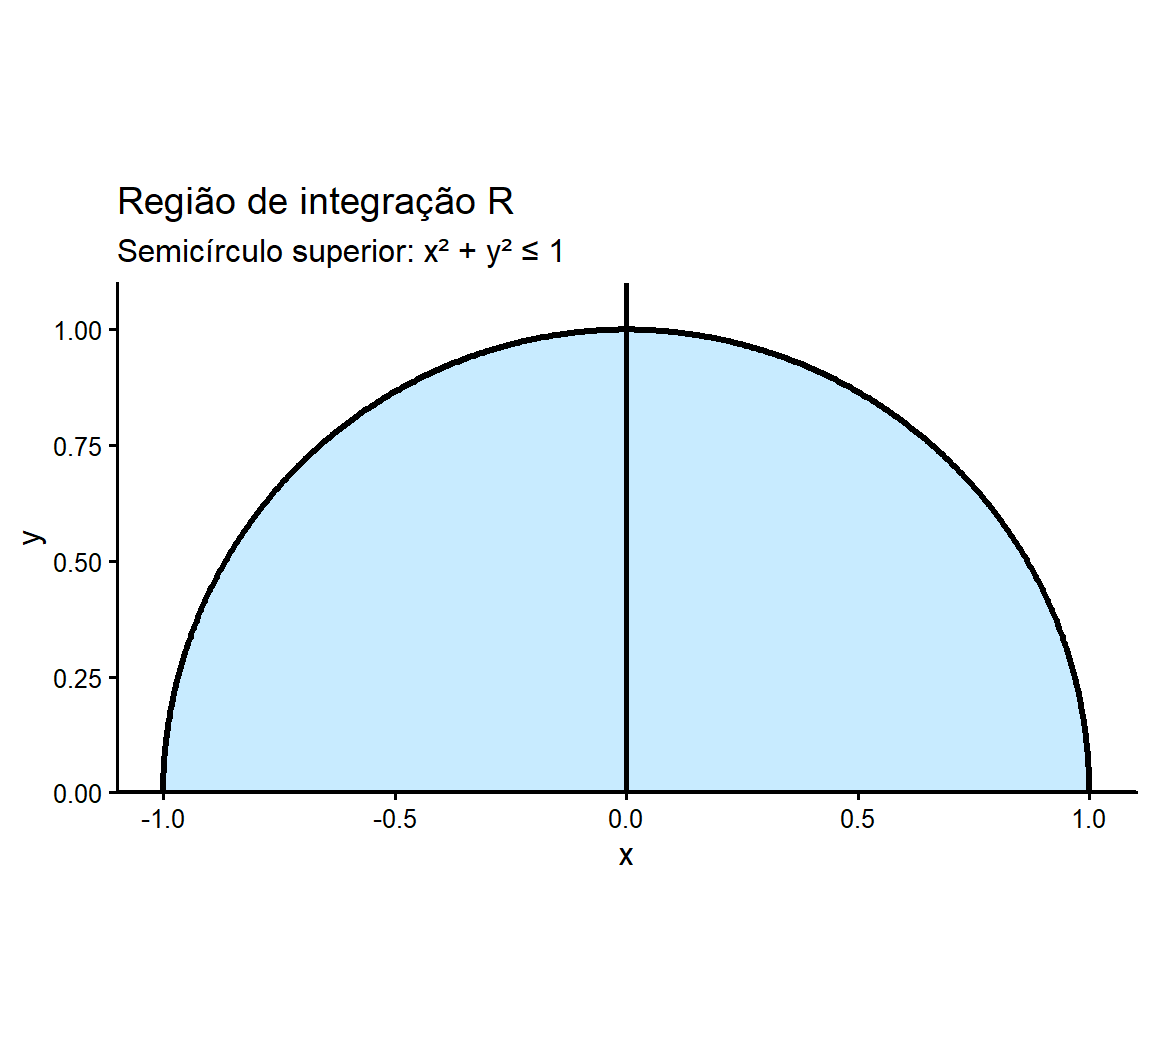
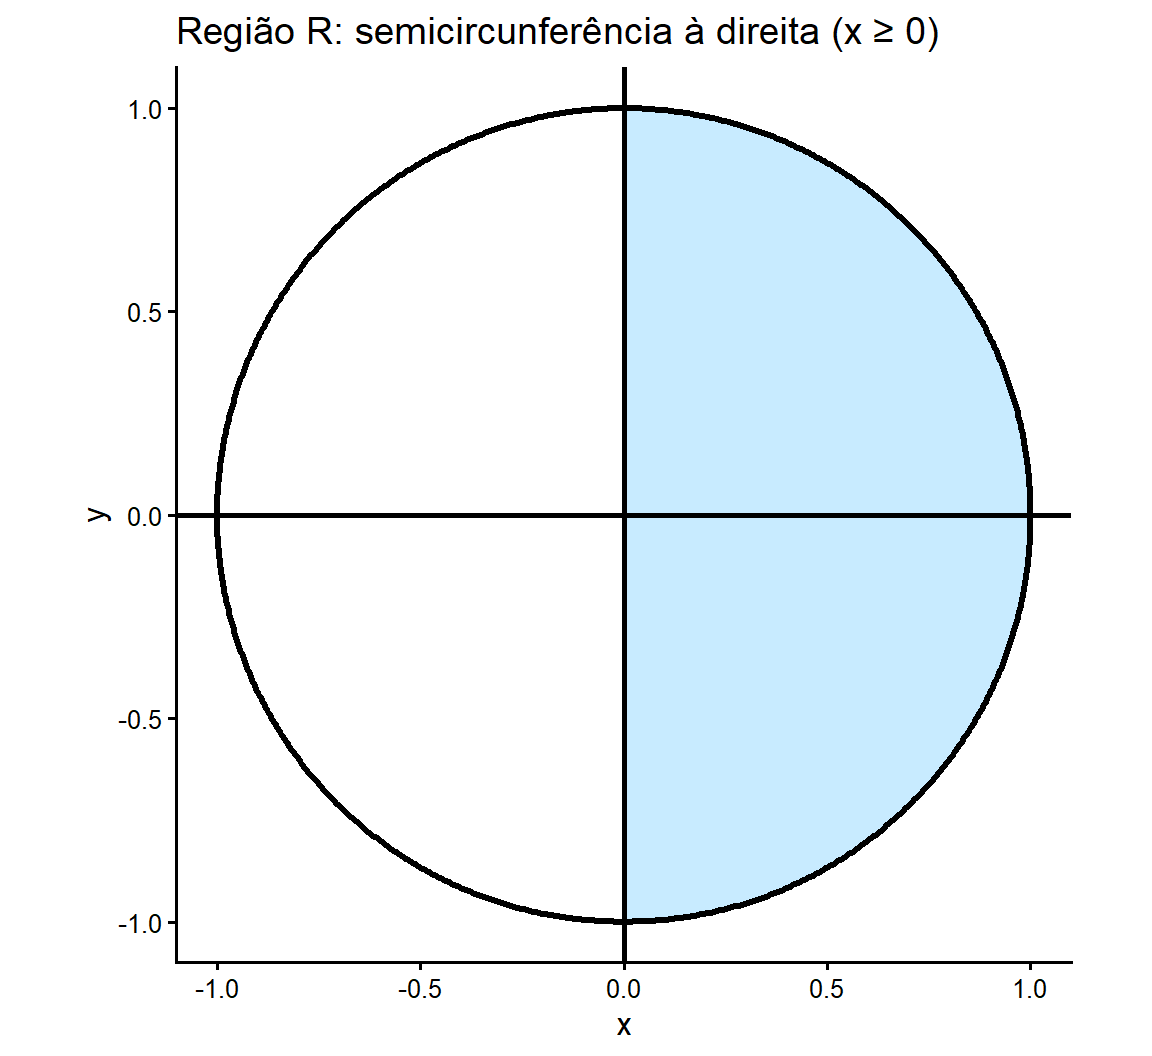
ajuste aula coordenadas polares

diff --git a/docs/aulas/integrais_dup_trip/integrais_dup_trip.html b/docs/aulas/integrais_dup_trip/integrais_dup_trip.html
@@ -855,7 +855,7 @@ r
 <h2>Integral Dupla em Coordenadas Polares</h2>
 <p><strong>Exemplo 08:</strong> Calcule <span class="math display">\[
 \iint_R (x-y)\,dA,
-\]</span> sendo <span class="math inline">\(R\)</span> o semi-círculo de centro na origem e raio <span class="math inline">\(1\)</span> (isto é, a região <span class="math inline">\(x^2+y^2\le 1\)</span> com <span class="math inline">\(y\ge 0\)</span>).</p>
+\]</span> sendo <span class="math inline">\(R\)</span> o semi-círculo de centro na origem e raio <span class="math inline">\(1\)</span> (isto é, a região <span class="math inline">\(x^2+y^2\le 1\)</span> com <span class="math inline">\(x\ge 0\)</span>).</p>
 
 <img data-src="integrais_dup_trip_files/figure-revealjs/unnamed-chunk-7-1.png" class="quarto-figure quarto-figure-center r-stretch" width="576"></section>
 <section id="integral-dupla-em-coordenadas-polares-4" class="slide level2">
@@ -871,7 +871,7 @@ x-y = r\cos\theta - r\,\text{sen }\theta = r(\cos\theta-\text{sen }\theta)
 </div>
 <div class="fragment">
 <p>Como <span class="math inline">\(R\)</span> é o semicírculo superior de raio <span class="math inline">\(1\)</span>, temos <span class="math display">\[
-0\le r\le 1,\qquad 0\le \theta\le \pi
+0\le r\le 1,\qquad -\dfrac{\pi}{2}\le \theta\le \dfrac{\pi}{2}
 \]</span></p>
 </div>
 </section>
@@ -881,9 +881,9 @@ x-y = r\cos\theta - r\,\text{sen }\theta = r(\cos\theta-\text{sen }\theta)
 <p><span class="math display">\[
 \iint_R (x-y)\,dA
 =
-\int_{0}^{\pi}\int_{0}^{1} r(\cos\theta-\text{sen }\theta)\,r\,dr\,d\theta
+\int_{-\frac{\pi}{2}}^{\frac{\pi}{2}}\int_{0}^{1} r(\cos\theta-\text{sen }\theta)\,r\,dr\,d\theta
 =
-\int_{0}^{\pi}\int_{0}^{1} r^2(\cos\theta-\text{sen }\theta)\,dr\,d\theta
+\int_{-\frac{\pi}{2}}^{\frac{\pi}{2}}\int_{0}^{1} r^2(\cos\theta-\text{sen }\theta)\,dr\,d\theta
 \]</span></p>
 <div class="fragment">
 <p>Integrando em relação a <span class="math inline">\(r\)</span></p>
@@ -897,7 +897,7 @@ x-y = r\cos\theta - r\,\text{sen }\theta = r(\cos\theta-\text{sen }\theta)
 <p>Integrando em relação a <span class="math inline">\(\theta\)</span></p>
 <p><span class="math display">\[
 \begin{aligned}
-\int_{0}^{\pi}\frac{1}{3}(\cos\theta-\text{sen }\theta)\,d\theta &amp;= \frac13 \int_{0}^{\pi}\cos\theta\,d\theta - \frac13 \int_{0}^{\pi} \text{sen }\theta\,d\theta \\[6pt] &amp;= \frac13 \text{sen }\theta \bigg|_{0}^{\pi} + \frac13 \cos\theta\bigg|_{0}^{\pi} \\[6pt] &amp;= \frac13 (\text{sen }\pi - \text{sen } 0) + \frac13 (\cos \pi - \cos 0) \\[6pt] &amp;= \frac13 \cdot 0 + \frac13(-1-1) = -\frac23
+\int_{-\frac{\pi}{2}}^{\frac{\pi}{2}}\frac{1}{3}(\cos\theta-\text{sen }\theta)\,d\theta &amp;= \frac13 \int_{-\frac{\pi}{2}}^{\frac{\pi}{2}}\cos\theta\,d\theta - \frac13 \int_{-\frac{\pi}{2}}^{\frac{\pi}{2}} \text{sen }\theta\,d\theta \\[6pt] &amp;= \frac13 \text{sen }\theta \bigg|_{-\frac{\pi}{2}}^{\frac{\pi}{2}} + \frac13 \cos\theta\bigg|_{-\frac{\pi}{2}}^{\frac{\pi}{2}} \\[6pt] &amp;= \frac13 \Bigg(\text{sen }\bigg(\frac{\pi}{2}\bigg) - \text{sen } \bigg(-\frac{\pi}{2}\bigg)\Bigg) + \frac13 \Bigg(\cos \bigg(\frac{\pi}{2}\bigg) - \cos \bigg(-\frac{\pi}{2}\bigg)\Bigg) \\[6pt] &amp;= \frac13 \cdot (1 - (-1)) + \frac13(0-0) = \frac23
 \end{aligned}
 \]</span></p>
 </section>
@@ -942,7 +942,7 @@ x=r\cos\theta,\qquad y=r\,\text{sen }\theta,\qquad dA=dx\,dy=r\,dr\,d\theta
 \]</span></p>
 <h3 id="integral-em-theta">Integral em <span class="math inline">\(\theta\)</span></h3>
 <p><span class="math display">\[
-\int_{0}^{2\pi} \frac{26}{3} d\theta = 2\pi = \frac{26}{3} \int_{0}^{2\pi} d\theta = \frac{26}{3} \cdot \theta \bigg|_0^{2\pi} = \frac{52 \pi}{3}
+\int_{0}^{2\pi} \frac{26}{3} d\theta = \frac{26}{3} \int_{0}^{2\pi} d\theta = \frac{26}{3} \cdot \theta \bigg|_0^{2\pi} = \frac{52 \pi}{3}
 \]</span></p>
 
 
